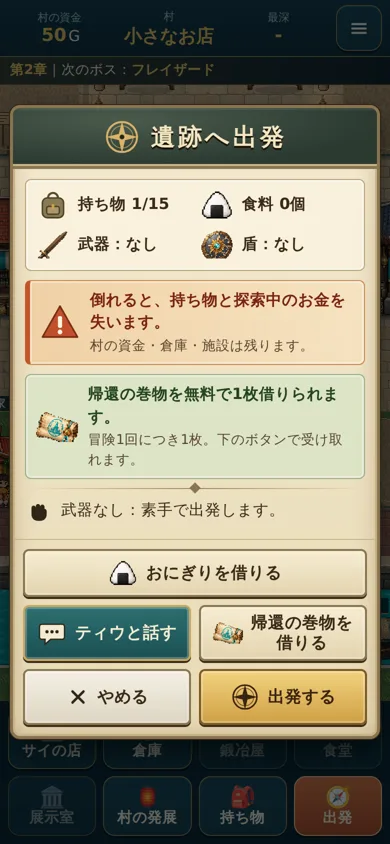
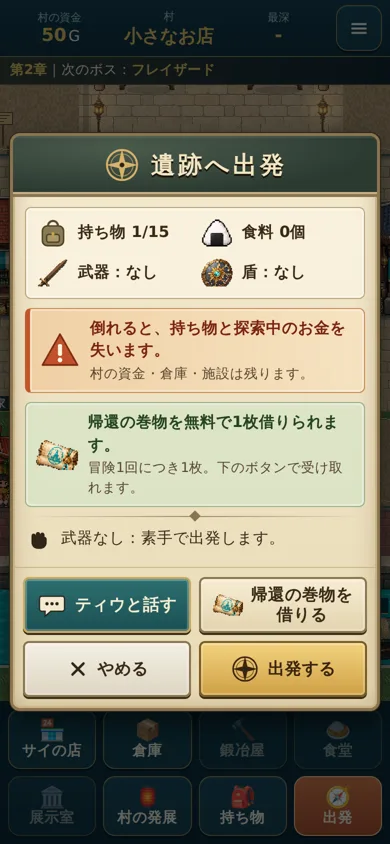
出発画面から「おにぎりを借りる」のボタンを外す（おにぎりはサイの店で借りられる）
Claude-Session: https://claude.ai/code/session_01HDLigwwegm7F2trSGLBQuS

diff --git a/js/ui.js b/js/ui.js
@@ -858,7 +858,7 @@
 
   // ---- 出発 ----
   /* 遺跡へ出発（革・古紙・金属のデザイン。ボタンの並びは固定：左上 ティウと話す／右上 帰還の巻物を借りる・受取済み／左下 やめる／右下 出発する）。
-   * おにぎりの貸し出し・21階からの出発があるときは、その上に横長のボタンで出す。
+   * 21階からの出発（大魔王のローブ）があるときは、その上に横長のボタンで出す。おにぎりの貸し出しはサイの店だけ（出発画面には出さない）。
    * 帰還の巻物：1回の冒険につき無料で1枚（G.takeReturnScroll）。受け取りは任意。受け取ったら「受取済み」で押せない（閉じる・開き直す・読み込み直しでも戻らない）。
    * 持ち物がいっぱいのときは押せるが受け取れず、受取済みにもしない（空きを作れば受け取れる） */
   const DP_ICON = {
@@ -874,7 +874,7 @@
     const V = UI.S.village;
     const chk = G.canDepart(UI.S);
     const w = G.equipped(V.bag, 'weapon'), s = G.equipped(V.bag, 'shield'), ac = G.equipped(V.bag, 'accessory');
-    const ls = G.loanStatus(UI.S), sc = G.scrollStatus(UI.S);
+    const sc = G.scrollStatus(UI.S);
     const food = V.bag.filter((i) => G.def(i).type === 'food').length;
     const ic = (id) => `<img src="${SP.iconURL(D.ITEMS[id])}" alt="">`;
     let html = `<div class="dp-panel dp-info">
@@ -897,11 +897,6 @@
     if (!chk.ok) html += `<p class="warnbox">${esc(chk.msg)}</p>`;
     const reopen = () => setTimeout(openDepart, 0);
     const buttons = [];
-    if (ls.food) buttons.push({ label: 'おにぎりを借りる', cls: 'dp-btn dp-paper dp-wide', html: `${ic('loan_rice')}<span>おにぎりを借りる</span>`, onClick: () => {
-      G.takeLoan(UI.S, 'food');
-      AU.sfx('pickup'); villageChanged();
-      reopen();
-    } });
     if (G.canDeepStart(UI.S)) buttons.push({ label: G.DEEP_START + '階から出発', cls: 'dp-btn dp-paper dp-wide', disabled: !chk.ok, onClick: () => depart({ deep: true }) });
     // 左上：ティウと話す（竜の紋章を拾うまではヒント。拾ったあとは見送りのことば）
     buttons.push({ label: 'ティウと話す', cls: 'dp-btn dp-teal', html: `${DP_ICON.chat}<span>ティウと話す</span>`, onClick: () => {

diff --git a/tests/e2e.test.js b/tests/e2e.test.js
@@ -882,7 +882,7 @@ function eq2(a, b, m) { if (a !== b) throw new Error((m || 'eq') + ': ' + JSON.s
     const v = await p.evaluate(() => ({ funds: TS.UI.S.village.funds, bag: TS.UI.S.village.bag.length, run: TS.UI.S.run }));
     assert(v.funds === funds && v.bag === 0 && v.run === null, JSON.stringify(v));
     assert(!(await p.evaluate(() => document.querySelector('.modal').textContent.includes('木刀'))), 'no sword hint on retry');
-    await p.tap('.modal-buttons button >> text=おにぎりを借りる'); await p.waitForTimeout(150);
+    assert(!(await p.$('.depart-modal .modal-buttons button:has-text("おにぎり")')), 'no rice loan button on the depart screen');
     await p.tap('.depart-modal .modal-buttons button:has-text("帰還の巻物")'); await p.waitForTimeout(200); await p.click('text=出発する'); await p.waitForTimeout(150);
     await closeTalk();
     assert(await p.isVisible('#screen-dungeon'), 'retried');
@@ -1160,7 +1160,6 @@ function eq2(a, b, m) { if (a !== b) throw new Error((m || 'eq') + ': ' + JSON.s
       for (let i = 0; i < 24 && await p2.$('.modal'); i++) { await p2.click('.modal-buttons button >> nth=-1'); await p2.waitForTimeout(60); }
       await p2.screenshot({ path: path.join(OUT, `22_${name}_village.png`) });
       await p2.click('.fac.depart'); await p2.waitForTimeout(100);
-      await p2.click('text=おにぎりを借りる'); await p2.waitForTimeout(100);
       await p2.click('.depart-modal .modal-buttons button:has-text("帰還の巻物")'); await p2.waitForTimeout(200); await p2.click('text=出発する'); await p2.waitForTimeout(100);
       for (let i = 0; i < 4 && await p2.$('.modal'); i++) { await p2.click('.modal-buttons button.primary'); await p2.waitForTimeout(60); }
       await p2.keyboard.press('ArrowRight'); await p2.waitForTimeout(150);

diff --git a/docs/DEPART_SCREEN.md b/docs/DEPART_SCREEN.md
@@ -17,7 +17,8 @@
   | ティウと話す | 帰還の巻物を借りる／受取済み |
   | やめる | 出発する |
 
-  - おにぎりの貸し出しと、21階から出発（大魔王のローブ）は、使えるときだけ、その上に横長で出します。
+  - 21階から出発（大魔王のローブ）は、使えるときだけ、その上に横長で出します。
+  - おにぎりの貸し出しのボタンは出発画面には出しません（サイの店で借りられます）。
 - **アイコン**
   - おにぎり・剣・盾・巻物：ゲームの道具の絵です。
   - 羅針盤・注意・かばん・吹き出し・×・フォーク・こぶし：仮の簡単な線の絵です。完成の素材が届いたら差し替えます。
